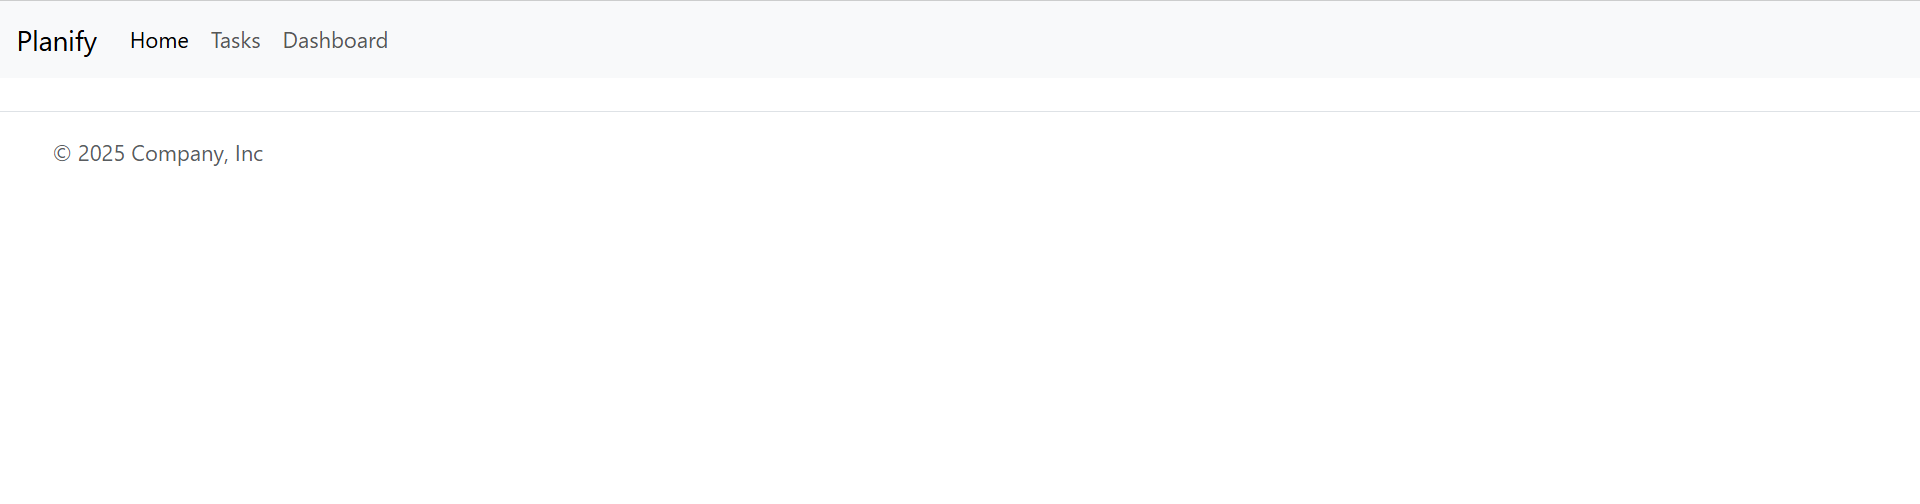
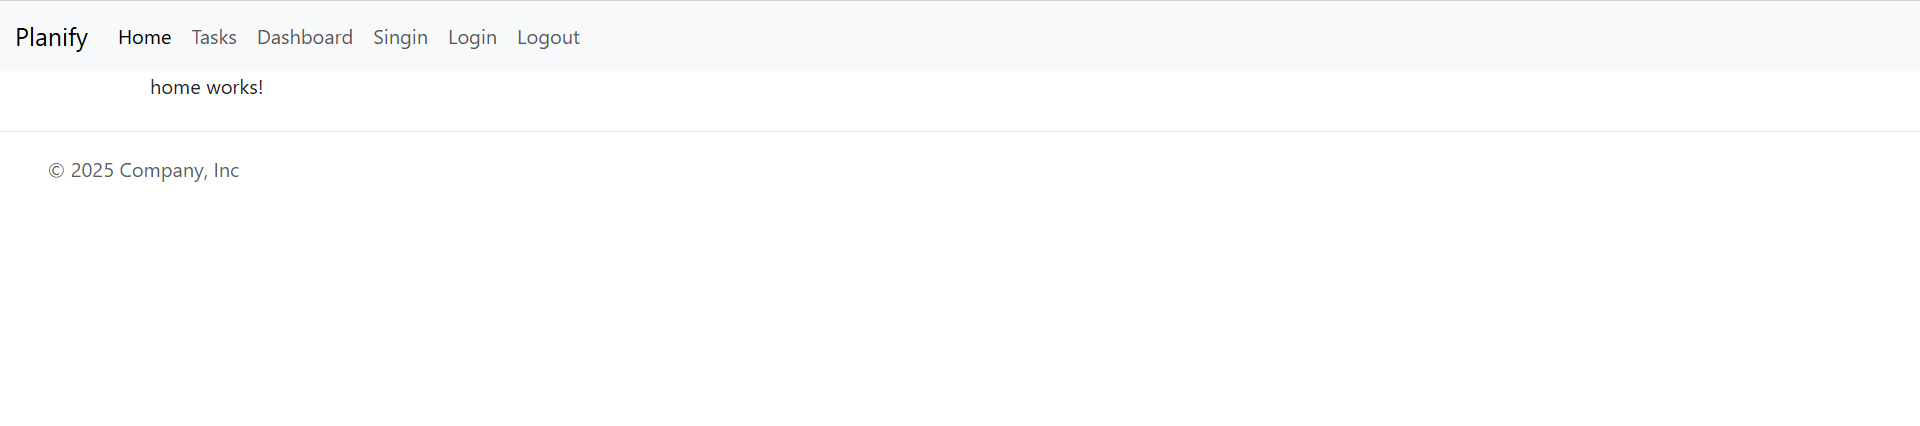
Corrección reto e imágenes.

diff --git a/README.md b/README.md
@@ -304,6 +304,7 @@ que conformarán nuestra aplicación Planify y que iremos desarrollando en futur
 ```bash 
 ng generate component components/navbar
 ```
+- `home/` → componente que contendrá la pantalla inicial de la aplicación.
 
 - `footer/` → componente que contendrá el footer de nuestra aplicación.
 
@@ -324,7 +325,7 @@ ng generate component components/navbar
 El resultado tras la creación de los componentes debe ser el siguiente:
 
 
-![Estructura](https://raw.githubusercontent.com/joseprofeinformatica/angular-tutorial/refs/heads/main/readme-images/reto-componentes.png)
+![EstructuraComponentes](https://raw.githubusercontent.com/joseprofeinformatica/angular-tutorial/refs/heads/main/readme-images/reto-estructura-componentes.png)
 
 ### Reto 4. Configurando el Navbar y Footer.
 
@@ -332,10 +333,16 @@ Modifica la plantilla de los componentes `navbar` y añade una barra de navegaci
  - Home
  - Tasks
  - Dashboard
+ - Signin
+ - Login
+ - Logout
 
 Modifica la plantilla del componente `footer` y añade un pie de página de bootstrap.
 
-Una vez modificada la plantilla de ambos componentes, importalos en el componente principal `app-component.`
+Una vez modificada la plantilla de ambos componentes, importalos en el componente principal `app-component.`. Añade también en medio de ambos componentes el Home. La estructura de componentes deberá quedar así:
+
+![OrganizacionComponentes](https://raw.githubusercontent.com/joseprofeinformatica/angular-tutorial/refs/heads/main/readme-images/reto-organizacion-componentes.png)
+
 
 
 Tras realizar este reto nuestra aplicación debe tener el siguiente aspecto:
@@ -345,7 +352,7 @@ Tras realizar este reto nuestra aplicación debe tener el siguiente aspecto:
 
 # 7. Sintaxis de la plantilla.
 
-En angular una plantilla es un fragmento de HTML. Sin embargo, dentro de esta se puede usar una sintaxis especial que permitirá añadirle un comportamiento dinámico a nuestra plantilla. Para emplear esta sintaxis especial se usará el carácter `@` .
+En angular una plantilla es un fragmento de HTML. Sin embargo, dentro de esta se puede usar una sintaxis especial que permitirá añadirle un comportamiento dinámico a nuestra plantilla. Para emplear esta sintaxis especial se usará el carácter `@`.
 
 Dado el contenido del controlador:
 
